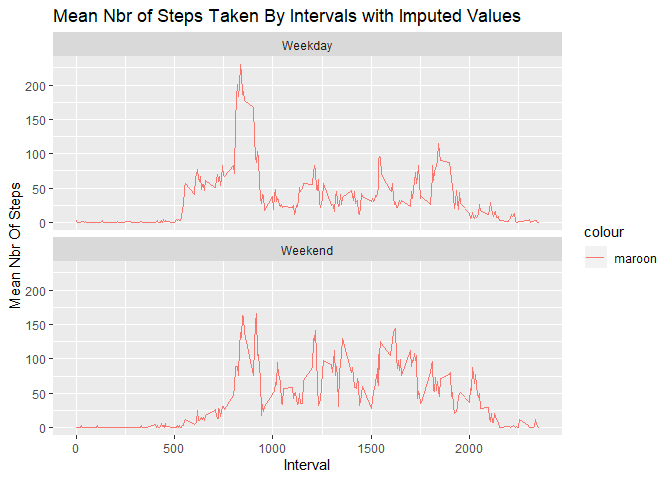
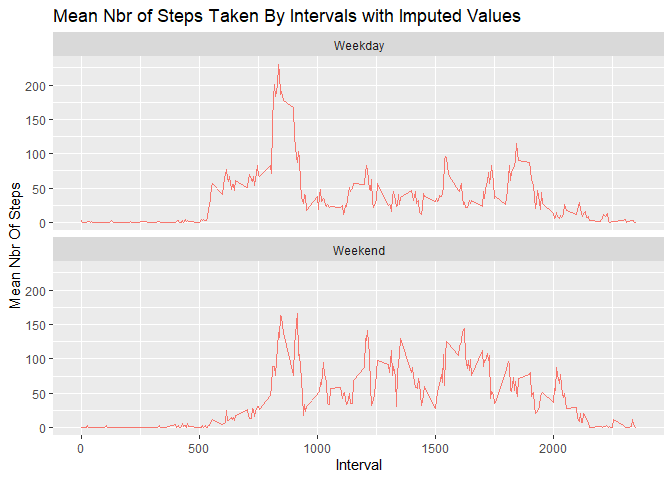
Minor updates

diff --git a/PA1_template.html b/PA1_template.html
@@ -368,14 +368,15 @@ summary {
 
 <div id="loading-and-preprocessing-the-data" class="section level2">
 <h2>Loading and preprocessing the data</h2>
-<pre class="r"><code>data &lt;-read.csv(&quot;C:\\Users\\adsmith\\Documents\\GitHub\\RepData_PeerAssessment1\\activity\\activity.csv&quot;, header= TRUE, sep=&#39;,&#39;)
+<pre class="r"><code>library(ggplot2)
+library(dplyr)
+data &lt;-read.csv(&quot;C:\\Users\\adsmith\\Documents\\GitHub\\RepData_PeerAssessment1\\activity\\activity.csv&quot;, header= TRUE, sep=&#39;,&#39;)
 data$date&lt;- as.Date(data$date)</code></pre>
 </div>
 <div id="what-is-mean-total-number-of-steps-taken-per-day" class="section level2">
 <h2>What is mean total number of steps taken per day?</h2>
-<pre class="r"><code>library (dplyr)
-library (ggplot2)
-
+<pre class="r"><code>library(dplyr)
+library(ggplot2)
 steps_day &lt;-data %&gt;% 
   group_by(date) %&gt;%
   summarize(sum_steps=sum(steps, na.rm=TRUE))
@@ -414,7 +415,7 @@ median_steps_imp &lt;- median(steps_day_imp$sum_steps_imp)</code></pre>
 These values will be replaced by figuring out the average number of steps for that 5 minute interval and placing that value into the missing row.</p>
 <p>After that calculation the mean number of steps taken each day is <strong>10766.19</strong> and the median number of steps taken each day is <strong>10766.19</strong>.</p>
 <p>Overall the number of steps taken is larger and the histogram has shifted to the right. This makes sense because we previously had a large number of days where the total steps was 0 through a combination of NA and true ‘0’ values. By replacing those NA values with a number we naturally increse the total quantities.</p>
-<p>We can also see that the mean and median values are now the same. This is also not surprising as we’ve added many values that are exactly the mean, making it more likely that one of these becomes the median as well.</p>
+<p>We can also see that the mean and median values are now the same. This is not surprising because we’ve added many values that are exactly the mean, making it more likely that one of these becomes the median as well.</p>
 </div>
 <div id="are-there-differences-in-activity-patterns-between-weekdays-and-weekends" class="section level2">
 <h2>Are there differences in activity patterns between weekdays and weekends?</h2>
@@ -425,8 +426,8 @@ steps_int_imp &lt;-merged %&gt;%
   group_by(interval,weekday) %&gt;%
   summarize(mean_steps=mean(steps))
 
-ggplot(data=steps_int_imp, aes(x=steps_int_imp$interval, y=mean_steps, group=1, color=&quot;maroon&quot;)) + geom_line()+xlab(&quot;Interval&quot;)+ylab(&quot;Mean Nbr Of Steps&quot;)+ggtitle(&quot;Mean Nbr of Steps Taken By Intervals with Imputed Values&quot;)+facet_wrap(~weekday, ncol=1)</code></pre>
[1 lines of base64/hex data omitted]
+ggplot(data=steps_int_imp, aes(x=steps_int_imp$interval, y=mean_steps, group=1, color=&quot;maroon&quot;)) + geom_line()+xlab(&quot;Interval&quot;)+ylab(&quot;Mean Nbr Of Steps&quot;)+ggtitle(&quot;Mean Nbr of Steps Taken By Intervals with Imputed Values&quot;)+facet_wrap(~weekday, ncol=1) +theme(legend.position = &quot;none&quot;) </code></pre>
[1 lines of base64/hex data omitted]
 </div>
 
 

diff --git a/PA1_template.md b/PA1_template.md
@@ -10,6 +10,8 @@ output:
 
 
 ```r
+library(ggplot2)
+library(dplyr)
 data <-read.csv("C:\\Users\\adsmith\\Documents\\GitHub\\RepData_PeerAssessment1\\activity\\activity.csv", header= TRUE, sep=',')
 data$date<- as.Date(data$date)
 ```
@@ -18,9 +20,8 @@ data$date<- as.Date(data$date)
 ## What is mean total number of steps taken per day?
 
 ```r
-library (dplyr)
-library (ggplot2)
-
+library(dplyr)
+library(ggplot2)
 steps_day <-data %>% 
   group_by(date) %>%
   summarize(sum_steps=sum(steps, na.rm=TRUE))
@@ -81,7 +82,7 @@ After that calculation the mean number of steps taken each day is **10766.19** a
 
 Overall the number of steps taken is larger and the histogram has shifted to the right. This makes sense because we previously had a large number of days where the total steps was 0 through a combination of NA and true '0' values. By replacing those NA values with a number we naturally increse the total quantities.   
 
-We can also see that the mean and median values are now the same. This is also not surprising as we've added many values that are exactly the mean, making it more likely that one of these becomes the median as well.   
+We can also see that the mean and median values are now the same. This is not surprising because we've added many values that are exactly the mean, making it more likely that one of these becomes the median as well.   
 
 
 ## Are there differences in activity patterns between weekdays and weekends?
@@ -94,7 +95,7 @@ steps_int_imp <-merged %>%
   group_by(interval,weekday) %>%
   summarize(mean_steps=mean(steps))
 
-ggplot(data=steps_int_imp, aes(x=steps_int_imp$interval, y=mean_steps, group=1, color="maroon")) + geom_line()+xlab("Interval")+ylab("Mean Nbr Of Steps")+ggtitle("Mean Nbr of Steps Taken By Intervals with Imputed Values")+facet_wrap(~weekday, ncol=1)
+ggplot(data=steps_int_imp, aes(x=steps_int_imp$interval, y=mean_steps, group=1, color="maroon")) + geom_line()+xlab("Interval")+ylab("Mean Nbr Of Steps")+ggtitle("Mean Nbr of Steps Taken By Intervals with Imputed Values")+facet_wrap(~weekday, ncol=1) +theme(legend.position = "none") 
 ```
 
 ![](PA1_template_files/figure-html/unnamed-chunk-5-1.png)<!-- -->
